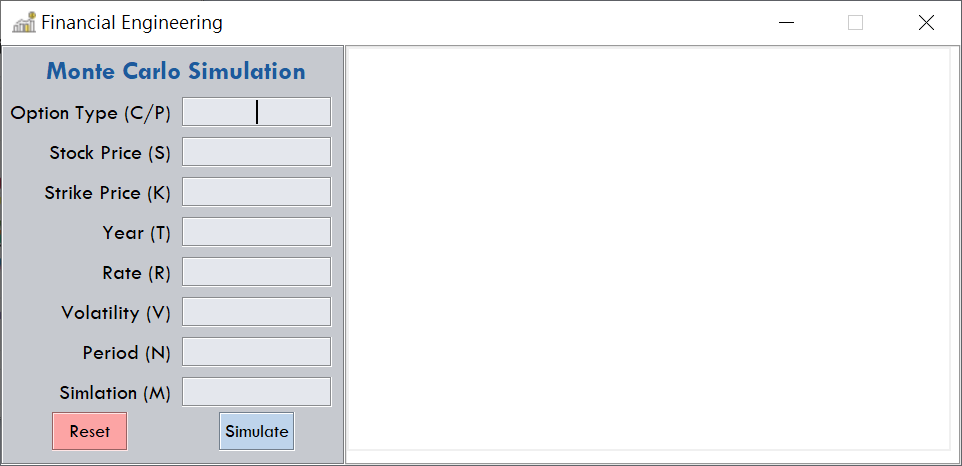
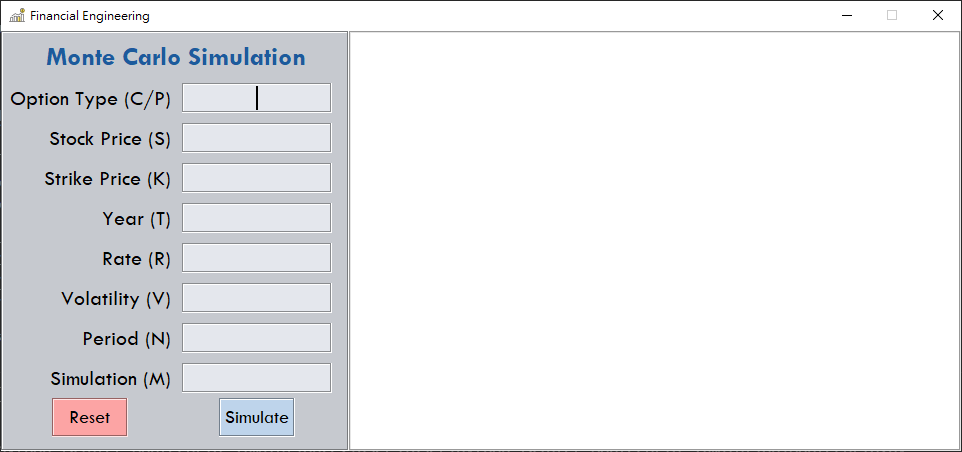
adjust

diff --git a/MonteCarlo.py b/MonteCarlo.py
@@ -75,13 +75,7 @@ def Simulate():
             option_value_T = max(stock_price_T - K, 0) if option_type == 'C' \
                 else max(K - stock_price_T, 0)
             result_option_value.append(option_value_T)
-
-            if len(result_simulation_process_result) != 10:
-
-                result_simulation_process_result.append(result[1])
-
-            else:
-                pass
+            result_simulation_process_result.append(result[1])
 
         expected_option_price = sum(result_option_value) / how_many_times
         pv_of_expected_option_price = expected_option_price * math.exp(-R*T)
@@ -99,7 +93,7 @@ def Simulate():
 
         fig.suptitle("Option Price (PV): " + r"$\bf{" +
                      '{:.2f}'.format(pv_of_expected_option_price) + "}$  " +
-                     "Simulation Times: " + r"$\bf{" + str(how_many_times) + "}$", fontsize=18)
+                     "Simulation: " + r"$\bf{" + str(how_many_times) + "}$", fontsize=18)
 
         ax.axhline(y=S, color="k", ls="--", alpha=0.8)
 
@@ -202,7 +196,7 @@ time_label = Label(main_frame, font=label_font, bg=label_color, text='Year (T)')
 rate_label = Label(main_frame, font=label_font, bg=label_color, text='Rate (R)')
 volatility_label = Label(main_frame, font=label_font, bg=label_color, text='Volatility (V)')
 period_label = Label(main_frame, font=label_font, bg=label_color, text='Period (N)')
-simulate_times_label = Label(main_frame, font=label_font, bg=label_color, text='Simlation (M)')
+simulate_times_label = Label(main_frame, font=label_font, bg=label_color, text='Simulation (M)')
 
 
 title_label.grid(row=0, column=0, padx=4, pady=4,  columnspan=2)

diff --git a/README.md b/README.md
@@ -3,13 +3,12 @@
 
 **Introduction**
 ---
-Enter all parameters needed and click simulate. 
+Enter all parameters needed and click simulate.
 
-Result will show up right after(In most of time, it depends on the simulation times("M").)
+Result will show up right after(In most of time, it depends on the simulation("M").)
 
-Plot represent ten of all simulation process.
 
-And the title of plot tells the present value of the option and simulation times.
+The title of plot tells the present value of the option.
 
 
 **Notice**
@@ -24,13 +23,11 @@ And the title of plot tells the present value of the option and simulation times
 
 **Enjoy**
 ---
-1. Clone the project 
+
 ```bash
 git clone https://github.com/ycy-tw/python-tkinter-MonteCarlo-Simulation.git
-```
-
-2. Start Simulating
-```bash
 cd python-tkinter-MonteCarlo-Simulation
+virtualenv env
+pip install -r requirements.txt
 python MonteCarlo.py
 ```
